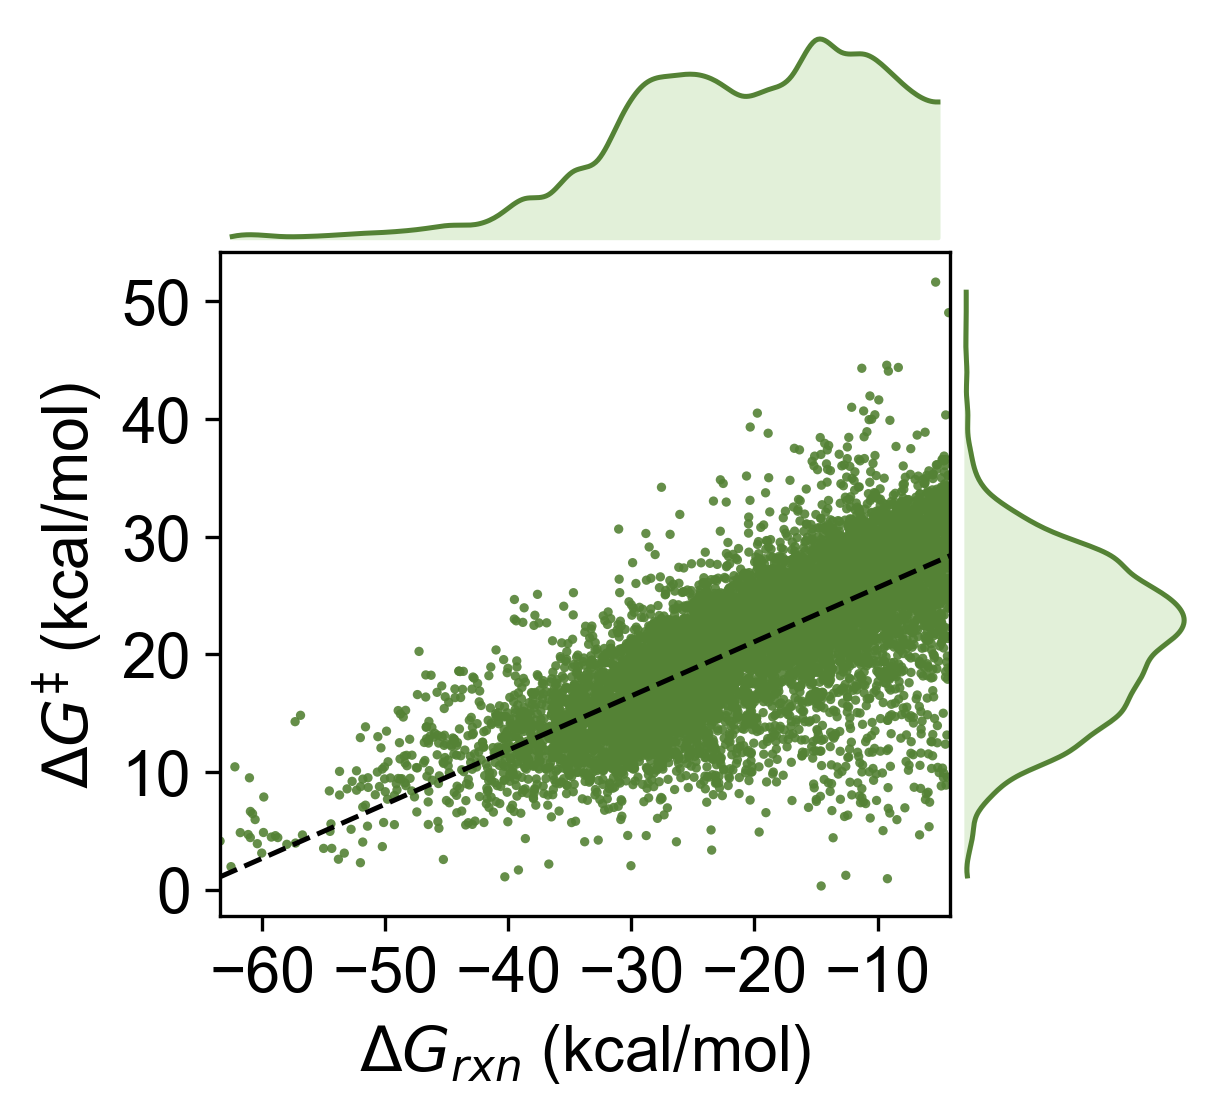
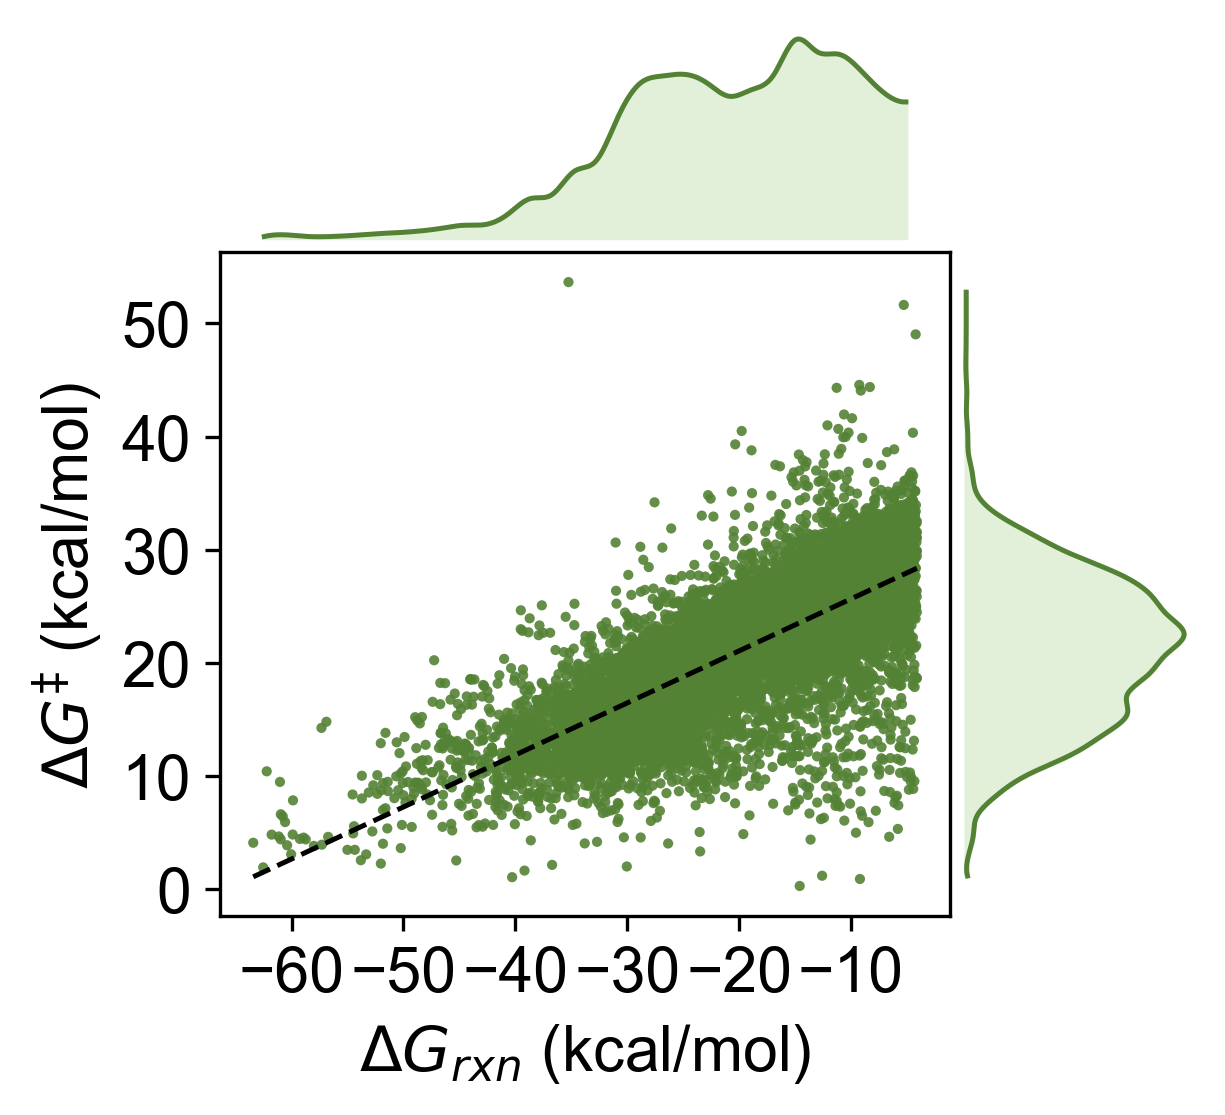
modified:   3_Build_DataBase.ipynb 	renamed:    Build_DataBase_v2.py -> DFTStructureGenerator/Build_DataBase.py 	modified:   DFTStructureGenerator/Tool.py 	modified:   DFTStructureGenerator/__pycache__/B_N_Cl.cpython-312.pyc 	new file:   DFTStructureGenerator/__pycache__/Build_DataBase.cpython-312.p

diff --git a/DFTStructureGenerator/draw.py b/DFTStructureGenerator/draw.py
@@ -1,0 +1,93 @@
+import numpy as np
+from scipy.interpolate import make_interp_spline
+from scipy.stats import pearsonr
+from sklearn.metrics import r2_score
+
+
+# ===== Smooth histogram =====
+def smooth_hist(data, bins=30):
+    hist, edges = np.histogram(data, bins=bins)
+    hist = hist / len(data)
+
+    centers = 0.5 * (edges[:-1] + edges[1:])
+    spline = make_interp_spline(centers, hist, k=3)
+
+    x_smooth = np.linspace(centers.min(), centers.max(), 300)
+    y_smooth = spline(x_smooth)
+
+    return x_smooth, y_smooth
+
+
+# ===== Plot distribution (independent function) =====
+def plot_distribution(ax, data, orientation='top',
+                      bins=30,
+                      color_line='black',
+                      color_fill='lightgray',
+                      write_axis=False):
+
+    xs, ys = smooth_hist(data, bins)
+
+    if orientation == 'top':
+        ax.plot(xs, ys, color=color_line, lw=1.2)
+        ax.fill_between(xs, ys, 0, color=color_fill)
+
+    elif orientation == 'right':
+        ax.plot(ys, xs, color=color_line, lw=1.2)
+        ax.fill_betweenx(xs, ys, 0, color=color_fill)
+
+    if write_axis:
+        ax.axis('on')
+    else:
+        ax.axis('off')
+
+
+# ===== Scatter + linear fit =====
+def plot_scatter_fit(ax, x, y,
+                     color='black',
+                     s=6,
+                     linestyle='--'):
+
+    # scatter
+    ax.scatter(x, y, s=s, color=color, edgecolor='none', alpha=0.9)
+
+    # linear fit
+    coef = np.polyfit(x, y, 1)
+    x_fit = np.linspace(x.min(), x.max(), 200)
+    y_fit = np.polyval(coef, x_fit)
+
+    ax.plot(x_fit, y_fit, color='black', lw=1.2, linestyle=linestyle)
+
+    # statistics
+    r, _ = pearsonr(x, y)
+    y_pred = np.polyval(coef, x)
+    r2 = r2_score(y, y_pred)
+
+    print("coef:", coef)
+    print(f"Pearson r: {r:.3f}")
+    print(f"R^2: {r2:.3f}")
+
+    return coef, r, r2
+
+def plot_panel(ax_main, ax_top,
+               x, y,
+               xlabel,
+               x_ticks,
+               ylabel='',
+               color_main="#215f9a",
+               color_fill="#4e95d9"):
+
+    # scatter + fit
+    plot_scatter_fit(ax_main, x, y, color=color_main)
+
+    # labels
+    ax_main.set_xlabel(xlabel, fontsize=15)
+    ax_main.set_ylabel(ylabel, fontsize=15)
+    ax_main.set_xticks(x_ticks)
+    ax_main.set_yticks(np.arange(0,60,10))
+    ax_main.tick_params(labelsize=15)
+
+    # distribution
+    plot_distribution(ax_top, x,
+                      orientation='top',
+                      color_line=color_main,
+                      color_fill=color_fill)

diff --git a/DFTStructureGenerator/Tool.py b/DFTStructureGenerator/Tool.py
@@ -4,6 +4,7 @@ import math, os, shutil
 import numpy as np
 import pandas as pd
 from rdkit import Chem
+from rdkit.Chem import rdMolTransforms
 
 
 def find_first_line(fileline, find_str, find_type="start"):
@@ -83,7 +84,7 @@ def get_bond_angle(atom_positionA, atom_positionB, atom_positionC):
     all_positions = [atom_positionA, atom_positionB, atom_positionC]
     for i in range(3):
         conf.SetAtomPosition(i, all_positions[i][:3])
-    bond_angle = Chem.rdMolTransforms.GetAngleDeg(conf, 0, 1, 2)
+    bond_angle = rdMolTransforms.GetAngleDeg(conf, 0, 1, 2)
     return bond_angle
 
 def get_torsion(A, B, C, D):